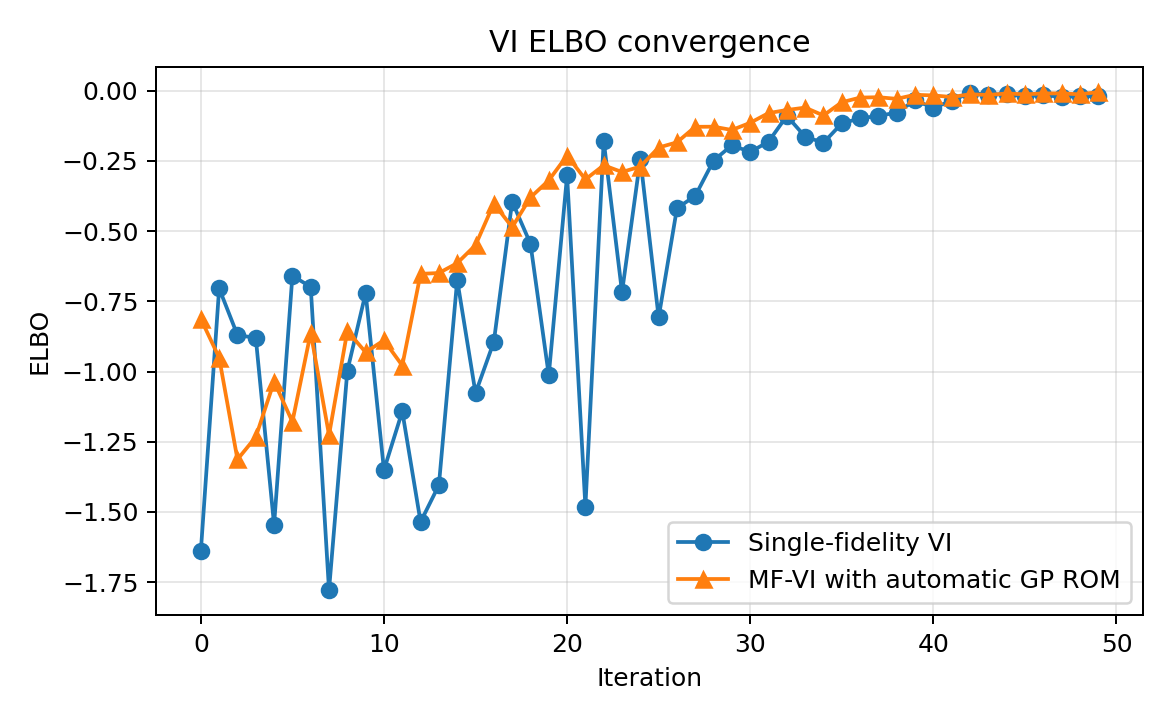
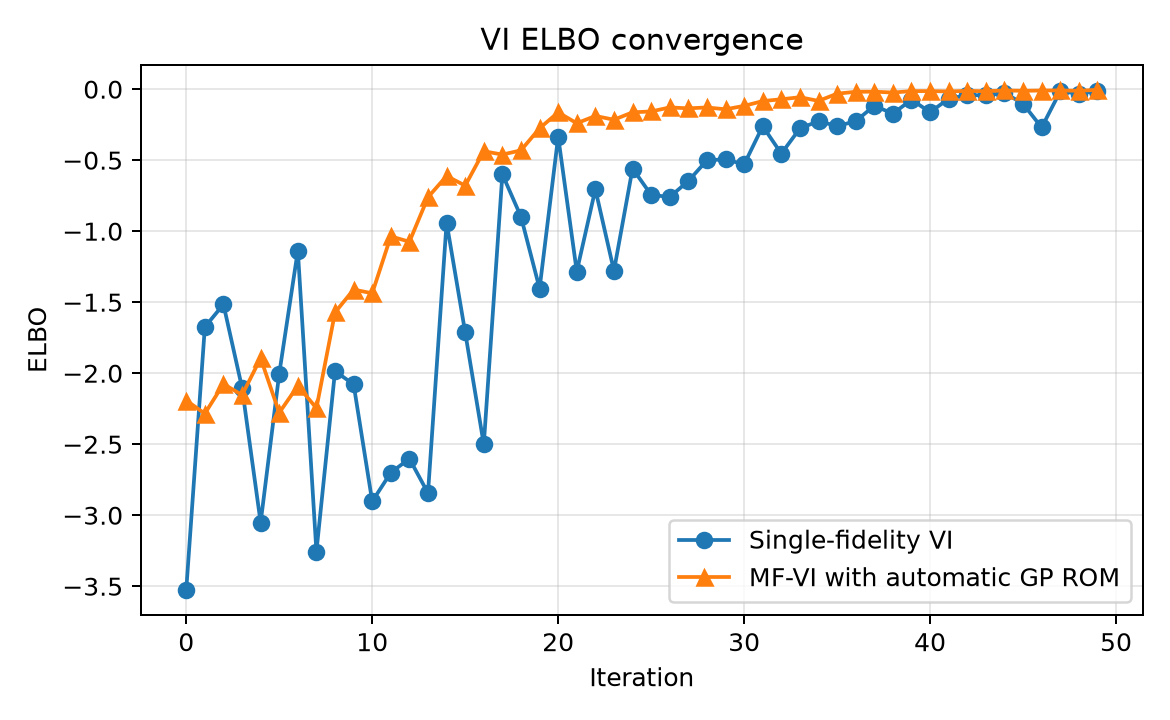
Improve VI/MF-VI benchmark setup and documentation (#366)
* Make VI demo bounds asymmetric about truth

* Document VI/MF-VI forward and inverse problem

* Expand VI/MF-VI problem documentation

* Set VI observation noise standard deviation to 5e-3

* Document VI observation noise standard deviation

* Document VI likelihood noise

* Temporarily regenerate VI/MF-VI figures in PR CI

* Commit regenerated VI/MF-VI figures from PR CI

* Checkout PR head before regenerating VI/MF-VI figures

* Regenerate VI/MF-VI documentation figures

* Restore documentation CI after figure regeneration

---------

diff --git a/examples/vi_mf_vi_demo/example.py b/examples/vi_mf_vi_demo/example.py
@@ -132,8 +132,11 @@ def main(
     model.run_model(str(truth_dir), truth_parameters)
     observations = model.compute_qoi(str(truth_dir), truth_parameters)
 
+    # Deliberately choose admissible bounds whose midpoint is not the truth.
+    # This avoids giving the inference problem an artificially favorable
+    # initialization through the Gaussian prior mean.
     parameter_mins = np.array([0.01, 0.1])
-    parameter_maxes = np.array([0.08, 0.6])
+    parameter_maxes = np.array([0.10, 0.8])
     prior = GaussianParameterSpace(
         ["nu", "sigma"],
         (parameter_mins + parameter_maxes) / 2.0,
@@ -148,11 +151,14 @@ def main(
         newton_hessian_averaging_factor=0.5,
     )
     line_search = VIStochasticNonmonotoneLineSearchConfig()
+    observation_noise_std = 5.0e-3
     common_arguments = {
         "model": model,
         "prior_parameter_space": prior,
         "observations": observations,
-        "observations_covariance": np.eye(observations.size) * 1.0e-5,
+        "observations_covariance": (
+            np.eye(observations.size) * observation_noise_std**2
+        ),
         "parameter_mins": parameter_mins,
         "parameter_maxes": parameter_maxes,
         "optimizer_method": "newton",

diff --git a/docs/source/demos/vi_mf_vi_demo.rst b/docs/source/demos/vi_mf_vi_demo.rst
@@ -4,7 +4,55 @@ VI and MF-VI Demo
 This example compares single-fidelity variational inference with multifidelity
 variational inference for a steady convection-diffusion-reaction model. Both
 methods approximate the posterior over the diffusion coefficient ``nu`` and
-reaction rate ``sigma`` with a Gaussian distribution.
+reaction coefficient ``sigma`` with a Gaussian distribution.
+
+Problem definition
+------------------
+
+The forward model solves the steady linear convection-diffusion-reaction
+problem on the unit square,
+
+.. math::
+
+   -\nu \nabla^2 u + \mathbf{b}\cdot\nabla u + \sigma u = 1,
+   \qquad \mathbf{b}=(1,1),
+
+with homogeneous Dirichlet boundary conditions. The diffusion coefficient
+:math:`\nu` and reaction coefficient :math:`\sigma` are treated as uncertain
+parameters. The scalar quantity of interest approximates the integral of the
+normal derivative on the right boundary,
+
+.. math::
+
+   Q(u) = \int_{x=1} \frac{\partial u}{\partial x}\,dy.
+
+Synthetic observations are generated from the full-order model at
+
+.. math::
+
+   \nu_{\mathrm{true}} = 0.04,
+   \qquad
+   \sigma_{\mathrm{true}} = 0.30.
+
+No random perturbation is added to the synthetic observation itself. The
+likelihood assumes independent Gaussian observation noise with standard
+deviation :math:`5\times 10^{-3}`, corresponding to covariance
+:math:`2.5\times 10^{-5}` for the scalar observation.
+
+The admissible parameter ranges are deliberately chosen so that their midpoint
+is not the true parameter vector:
+
+.. math::
+
+   0.01 \leq \nu \leq 0.10,
+   \qquad
+   0.10 \leq \sigma \leq 0.80.
+
+The Gaussian prior is initialized with the midpoint of these intervals as its
+mean and one quarter of each interval width as its standard deviation. Thus,
+its mean is :math:`(0.055, 0.45)`, rather than the truth
+:math:`(0.04, 0.30)`. This avoids giving the inference problem an artificially
+favorable initialization centered on the data-generating parameters.
 
 The multifidelity method supplements its full-order-model samples with
 additional evaluations of a Gaussian-process surrogate. The surrogate is
@@ -60,7 +108,7 @@ Results
    :width: 95%
 
    Variational means and one-standard-deviation bands for the inferred
-   diffusion coefficient and reaction rate.
+   diffusion coefficient and reaction coefficient.
 
 Implementation
 --------------

diff --git a/examples/vi_mf_vi_demo/README.md b/examples/vi_mf_vi_demo/README.md
@@ -1,9 +1,37 @@
 # VI and MF-VI demo
 
 This example compares single-fidelity variational inference with multifidelity
-variational inference using automatic Gaussian-process ROM construction. Both
-methods infer the diffusion coefficient and reaction rate in a steady
-convection-diffusion-reaction model.
+variational inference using automatic Gaussian-process ROM construction.
+
+The forward problem is a steady linear convection-diffusion-reaction equation
+on the unit square,
+
+\[
+-\nu \nabla^2 u + \mathbf{b}\cdot\nabla u + \sigma u = 1,
+\qquad \mathbf{b}=(1,1),
+\]
+
+with homogeneous Dirichlet boundary conditions. The uncertain parameters are
+the diffusion coefficient `nu` and reaction coefficient `sigma`. Synthetic data
+are generated at the truth
+
+- `nu = 0.04`
+- `sigma = 0.30`
+
+from the scalar quantity of interest used by the CDR model, which approximates
+the integral of the normal derivative on the right boundary. No random noise
+realization is added to the synthetic observation. The likelihood assumes
+Gaussian observation noise with standard deviation `5e-3`, corresponding to a
+scalar observation covariance of `2.5e-5`.
+
+The inference bounds are deliberately not centered on the truth:
+
+- `nu` is restricted to `[0.01, 0.10]`
+- `sigma` is restricted to `[0.10, 0.80]`
+
+The Gaussian prior uses the midpoint of these intervals as its mean and one
+quarter of each interval width as its standard deviation, so its mean is
+`(0.055, 0.45)` rather than the true parameter vector `(0.04, 0.30)`.
 
 Run the full example from the repository root:
 
